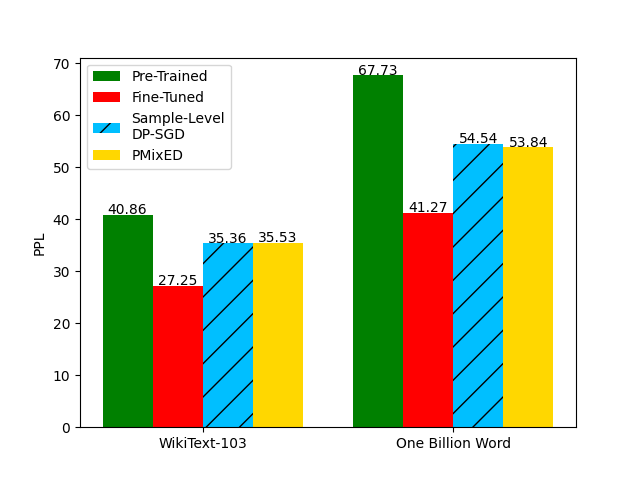
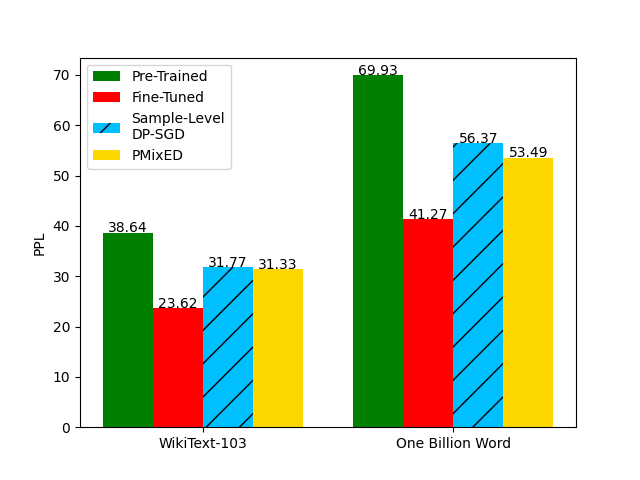
Updated stuff

diff --git a/ensemble.py b/ensemble.py
@@ -1,8 +1,7 @@
 import torch
-from transformers import AutoModelForCausalLM, AutoTokenizer, PreTrainedModel
-from peft import PeftModel, PeftConfig
+from transformers import AutoModelForCausalLM
+from peft import PeftModel
 from typing import List
-import torch.nn as nn
 import torch.nn.functional as F
 import numpy as np
 from math import comb
@@ -10,8 +9,6 @@ import copy
 import matplotlib.pyplot as plt
 from scipy.optimize import bisect, brentq
 import os
-from itertools import combinations
-import tqdm
 
 class Ensemble():
     def __init__(self, model_dirs, model_name, tokenizer,
@@ -32,17 +29,7 @@ class Ensemble():
         self.num_ensemble = len(self.model_dirs)
         self.lambdas = np.array([0 for _ in range(self.num_ensemble)])
         self.lambda_history = []
-
-        if self.p < 1.0:
-            gamma = 1 
-            while self.subsample_eps(gamma * self.eps / self.q_budget, self.p, self.alpha) < (self.eps / self.q_budget):
-                gamma += 1
-            #print("a value", (a-1))
-            self.eps = self.eps * (gamma-1)
-
-        self.target = np.log((self.p * self.num_ensemble) * np.exp((self.alpha-1) * self.eps / self.q_budget)
-                        + 1 - (self.p * self.num_ensemble)) / (4 * (self.alpha - 1))
-        #print(f"Target value {self.target:2f}")
+        self.target = 0
         self.lora_ensemble = 0 
         for i, dir in enumerate(self.model_dirs):
             if i == 0:
@@ -54,15 +41,18 @@ class Ensemble():
             else:
                 self.lora_ensemble.load_adapter(dir, adapter_name=f"lora-{i}")
     
-    def subsample_eps(self, eps, p, alpha):
-        return 1/(alpha-1) * np.log((1-p)**(alpha-1) * (1 + (alpha-1) * p) 
-                                    + np.sum([comb(alpha, k) * (1-p)**(alpha-k) * p**k *
-                                              np.exp((k-1) * eps) for k in range(2, alpha+1)]))
-    def privacy_loss(self, beta, size):
+    def subsample_eps(self, beta, size):
+        return 1/(self.alpha-1) * np.log((1-self.p)**(self.alpha-1) * (1 + (self.alpha-1) * self.p) 
+                                    + np.sum([comb(self.alpha, k) * (1-self.p)**(self.alpha-k) * self.p**k *
+                                              np.exp((k-1) * self.privacy_loss(beta, size, k))
+                                                for k in range(2, self.alpha+1)]
+                                            )
+                                        )
+    def privacy_loss(self, beta, size, alpha):
         if size == 1:
-            return beta * self.alpha
-        return (np.log((size - 1)/size + np.exp((self.alpha-1) * 4 * beta * self.alpha) / size ) 
-                / (self.alpha-1))
+            return beta * alpha
+        return (np.log((size - 1)/size + np.exp((alpha-1) * 4 * beta * alpha) / size ) 
+                / (alpha-1))
 
     @staticmethod
     def renyiDiv(p, q, alpha=float('inf')):
@@ -87,50 +77,26 @@ class Ensemble():
         output_dists.append(F.softmax(logits, dim=1))
         return output_dists 
 
-    def top_p_filtering(self, logits, p, filter_value=-float("Inf")):
-        sorted_logits, sorted_indices = torch.sort(logits, descending=True)
-        cumulative_probs = torch.cumsum(F.softmax(sorted_logits, dim=-1), dim=-1)
-
-        # Remove tokens with cumulative probability above the threshold (token with 0 are kept)
-        sorted_indices_to_remove = cumulative_probs > p
-
-        # Shift the indices to the right to keep also the first token above the threshold
-        sorted_indices_to_remove[..., 1:] = sorted_indices_to_remove[..., :-1].clone()
-        sorted_indices_to_remove[..., 0] = 0
-
-        # scatter sorted tensors to original indexing
-        indices_to_remove = sorted_indices_to_remove.scatter(1, sorted_indices, sorted_indices_to_remove)
-        logits[indices_to_remove] = filter_value
-
-        return logits
-    
-    def poisson_subsample(self, candidates, p):
+    def poisson_subsample(self, p):
         '''
         Poisson Subsampling is equivalent to m ~ Binomial(n, p), 
         then sampling m without replacement from [N]
         '''
-        sampled = np.random.choice(self.num_ensemble, np.random.binomial(self.num_ensemble, p))
-        return sampled
+        return np.random.choice(self.num_ensemble, np.random.binomial(self.num_ensemble, p))
 
     def priv_pred(self, output_dists):
-        sampled = self.poisson_subsample([i for i in range(self.num_ensemble)], self.p)
+        sampled = self.poisson_subsample(self.p)
         if len(sampled) == 0:
             self.lambda_history.append(0)
             return output_dists[self.num_ensemble]
-        #self.target = np.log((len(sampled)) * np.exp((self.alpha-1) * self.eps / self.q_budget)
-        #                + 1 - (len(sampled))) / (self.alpha - 1)
         self.target = self.beta_solver_bisection(len(sampled)) * self.alpha
         self.lambdas = np.array([self.lambda_solver_bisection(output_dists[i],
                                                     output_dists[self.num_ensemble],
                                                     )for i in sampled])
-
         self.lambda_history.append(np.mean([lambd for lambd in self.lambdas]))
         mixed_dists = [self.mix(output_dists[i], output_dists[self.num_ensemble], self.lambdas[lamb_i])
                        for lamb_i, i in enumerate(sampled)]
-
-        mixed_dists = torch.stack(mixed_dists)
-        ensemble_dist = mixed_dists.mean(dim=0) 
-        return ensemble_dist
+        return torch.stack(mixed_dists).mean(dim=0)
 
     def data_dependent_loss(self, mixed_dists, alpha, ret_idx=False):
         max_loss = 0
@@ -143,27 +109,26 @@ class Ensemble():
             max_loss = max(max_loss, eps)
         return (max_loss, idx.pop()) if ret_idx else max_loss
     
-    def data_independent_loss(self, p_mix, p_pub, alpha):
+    def rd_mollification(self, p_mix, p_pub, alpha):
         return  max(self.renyiDiv(p_mix, p_pub, alpha=alpha),
                    self.renyiDiv(p_pub, p_mix, alpha=alpha)).item()
 
     def lambda_solver_bisection(self, p, p_pub):
         def f(lambd):
             pred = self.mix(p, p_pub, lambd)
-            eps = self.data_independent_loss(pred, p_pub, self.alpha)
+            eps = self.rd_mollification(pred, p_pub, self.alpha)
             return (eps - self.target)
         if f(1) <= 0.0:
             lambd = 1 
         else:
-            lambd = bisect(f, 0, 1, maxiter=100, disp=False)
+            lambd = bisect(f, 0, 1, maxiter=20, disp=False)
         return lambd
     
     def beta_solver_bisection(self, size):
         def f(beta):
-            eps = self.privacy_loss(beta, size)
-            sub_eps = self.subsample_eps(eps, self.p, self.alpha)
+            sub_eps = self.subsample_eps(beta, size)
             return (sub_eps - self.eps/self.q_budget)
-        return bisect(f, 0, 5, maxiter=100, disp=False)
+        return bisect(f, 0, 5, maxiter=20, disp=False)
 
     def mix(self, p, p_prime, lambd=0.5):
         return (lambd * p + (1-lambd) * p_prime)

diff --git a/gen_plts.py b/gen_plts.py
@@ -13,9 +13,32 @@ ens_s, ens_e = 9, 13
 alp_s, alp_e = 13, 18 
 p_s, p_e = 18, 22
 
-pre_trained = 38.64
+pre_trained = 38.63
 fine_tuned = 23.62
 yticks = [25, 30, 35, 40]
+
+width = 0.2
+data = {"Pre-Trained": [38.63, 69.93], "Fine-Tuned": [25.11, 41.27],
+        "Sample-Level\nDP-SGD": [32.96, 56.37], "PMixED": [32.14, 53.49]}
+
+datasets = ["WikiText-103", "One Billion Word"]
+x = np.arange(len(datasets))
+
+pre_trained_bars = plt.bar(x-3*width/2, data['Pre-Trained'], width, label="Pre-Trained", color='green')
+fine_tuned_bars = plt.bar(x-width/2, data['Fine-Tuned'], width, label="Fine-Tuned", color='red')
+dpsgd_bars = plt.bar(x + width/2, data["Sample-Level\nDP-SGD"], width, label="Sample-Level\nDP-SGD", facecolor='deepskyblue', hatch='/')
+pmixed_bars = plt.bar(x + 3*width/2, data['PMixED'], width, label="PMixED", color='gold')
+
+for bars in [pre_trained_bars, fine_tuned_bars, dpsgd_bars, pmixed_bars]:
+    for bar in bars:
+        yval = bar.get_height()
+        plt.text(bar.get_x()+0.1, yval+0.1, yval, ha='center')
+
+plt.legend()
+plt.xticks(x, datasets)
+plt.ylabel("PPL")
+plt.savefig("plts/comparison.png")
+plt.clf()
 
 plt.plot(df.iloc[eps_s:eps_e]['epsilon'], df.iloc[eps_s:eps_e]['ppl'], linewidth=2,
           label="PMixED", color='gold', marker='o')
@@ -85,27 +108,4 @@ plt.yticks(yticks)
 plt.ylabel("PPL")
 plt.legend()
 plt.savefig('plts/probability.png')
-plt.clf()
-
-width = 0.2
-data = {"Pre-Trained": [pre_trained, 69.93], "Fine-Tuned": [fine_tuned, 42.33],
-        "Sample-Level\nDP-SGD": [32.02, 56.37], "PMixED": [30.81, 49.65]}
-
-datasets = ["WikiText-103", "One Billion Word"]
-x = np.arange(len(datasets))
-
-pre_trained_bars = plt.bar(x-3*width/2, data['Pre-Trained'], width, label="Pre-Trained", color='green')
-fine_tuned_bars = plt.bar(x-width/2, data['Fine-Tuned'], width, label="Fine-Tuned", color='red')
-dpsgd_bars = plt.bar(x + width/2, data["Sample-Level\nDP-SGD"], width, label="Sample-Level\nDP-SGD", facecolor='deepskyblue', hatch='/')
-pmixed_bars = plt.bar(x + 3*width/2, data['PMixED'], width, label="PMixED", color='gold')
-
-for bars in [pre_trained_bars, fine_tuned_bars, dpsgd_bars, pmixed_bars]:
-    for bar in bars:
-        yval = bar.get_height()
-        plt.text(bar.get_x()+0.1, yval+0.1, yval, ha='center')
-
-plt.legend()
-plt.xticks(x, datasets)
-plt.ylabel("PPL")
-plt.savefig("plts/comparison.png")
 plt.clf()

diff --git a/hyperparameter_experiments.py b/hyperparameter_experiments.py
@@ -8,21 +8,19 @@ results_file = "results.csv"
 parameters = ["epsilon", 'num_ensemble', 'query_budget', 'alpha', 'p', 'ppl']
 
 epsilons = [2, 4, 6, 8, 10]
-num_ensembles = [8, 16, 32, 64]
+num_ensembles = [32, 64, 80]
 query_budgets = [512, 1024, 2048, 4096]
-iters = [2**5, 2**4, 2**3, 2**2]
-alphas = [3, 4, 5, 6, 7]
-p_s = [1/32, 1/16, 1/8, 1/4]
+iters = [2**4, 2**3, 2**2, 2**1]
+alphas = [3, 4, 5, 6]
+p_s = [0.02, 0.03, 0.05, 0.1]
 
 default_epsilon = 8
 default_query_budget = 1024 
-default_num_ensembles = 32 
-default_p = 1/32
-default_iters = 2**4
+default_num_ensembles = 64 
+default_p = 0.03
+default_iters = 2**3
 default_alpha = 3
 delta = 1e-5
-
-#results = []
 
 def create_command(epsilon, q_budget, alpha, num_ensemble, p, iters):
     return ['./prediction_experiments.py', f'--epsilon={epsilon}',
@@ -67,11 +65,8 @@ with open(results_file, 'w') as f:
         w.writerow(results)
 
     for ensemble in tqdm.tqdm(num_ensembles, desc="Ensemble"):
-        default_p = 1/ensemble
         results = get_results(default_epsilon, default_query_budget, default_alpha, ensemble, default_p, default_iters)
         w.writerow(results)
-
-    default_p = 1/32
 
     for alpha in tqdm.tqdm(alphas, desc="alpha"):
         results = get_results(default_epsilon, default_query_budget, alpha, default_num_ensembles, default_p, default_iters)

diff --git a/prediction_experiments.py b/prediction_experiments.py
@@ -66,20 +66,19 @@ def main(args):
     dataset = load_dataset(args.dataset, args.data_subset)
 
     remove_columns = ["text"] 
-    tokenized_dataset = dataset.map(sample_level_tokenize_function,
+    tokenized_dataset = dataset['test'].map(sample_level_tokenize_function,
                                     fn_kwargs={"tokenizer": tokenizer},
                                     batched=True,
                                     num_proc=4,
                                     remove_columns=remove_columns
                                     )
-    lm_dataset = tokenized_dataset.map(
+    test_data = tokenized_dataset.map(
         group_texts,
         fn_kwargs={"block_size": seq_length},
         batched=True,
         num_proc=4
     ) 
 
-    test_data = lm_dataset['test']
     test_data.set_format(type="torch")
 
     pub_neg_log_likelihood = []

diff --git a/training_ensemble.py b/training_ensemble.py
@@ -78,11 +78,13 @@ def train_ensemble(args, model_dir):
         #print_trainable_parameters(lora_model)
 
         output_dir = 0
+        data = None if args.subset == None else args.subset
+
         if args.num_ensemble == 1:
-            output_dir = os.path.join(model_dir, f"lora-{args.model_name}-finetuned-{args.subset}")
+            output_dir = os.path.join(model_dir, f"lora-{args.model_name}-finetuned-{data}")
         else:
             output_dir = os.path.join(model_dir,
-                                    f"lora-{args.model_name}-{i}-finetuned-{args.subset}")
+                                    f"lora-{args.model_name}-{i}-finetuned-{data}")
         eval_strat = 'no' if args.dataset == 'lm1b' else 'epoch'
         train_args = TrainingArguments(
             output_dir=output_dir,
